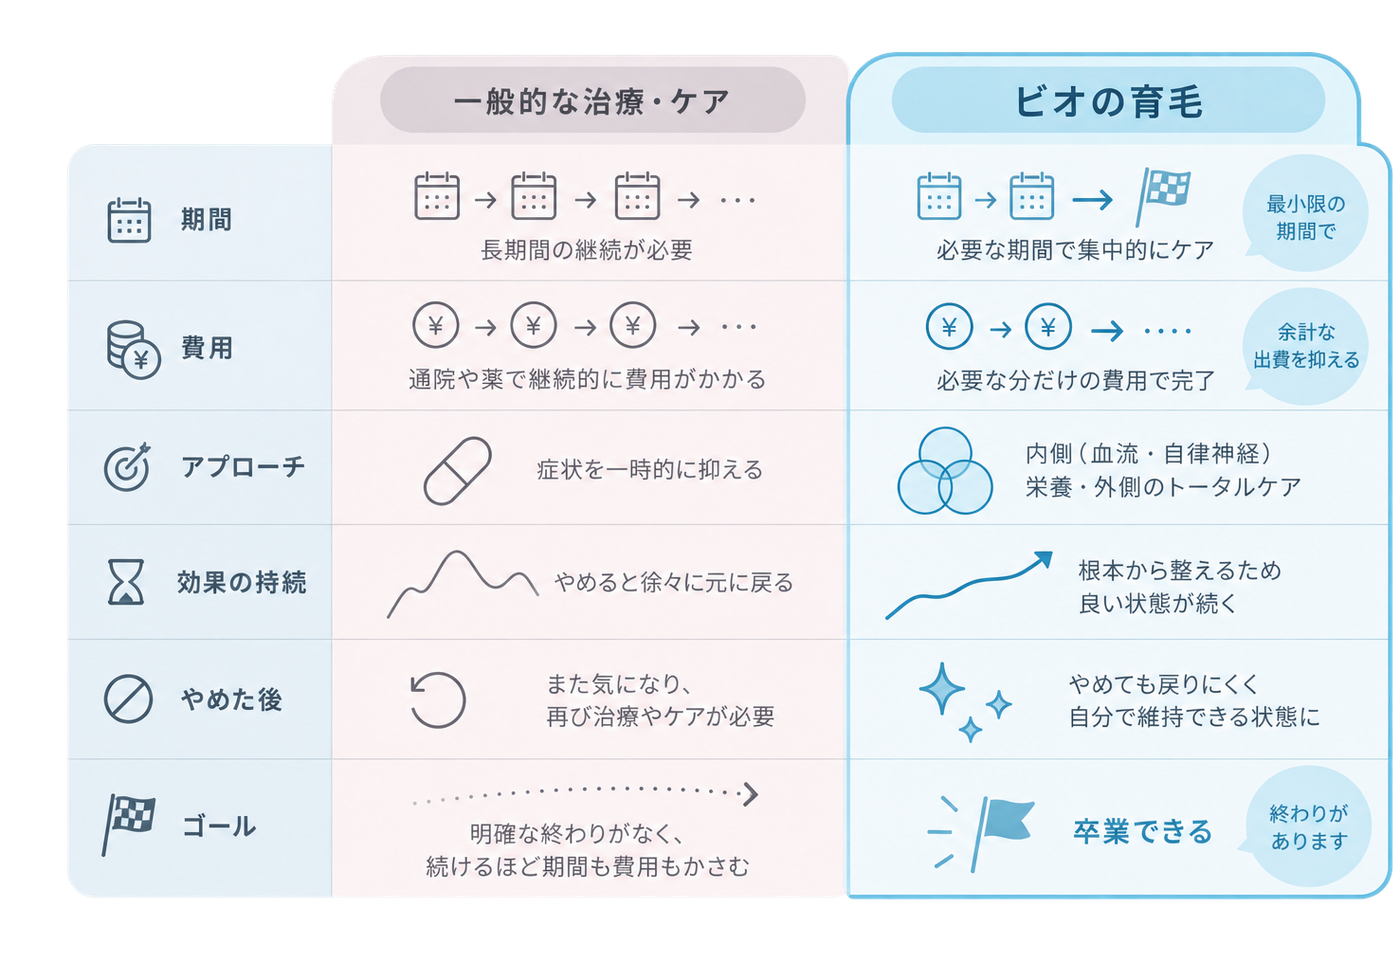
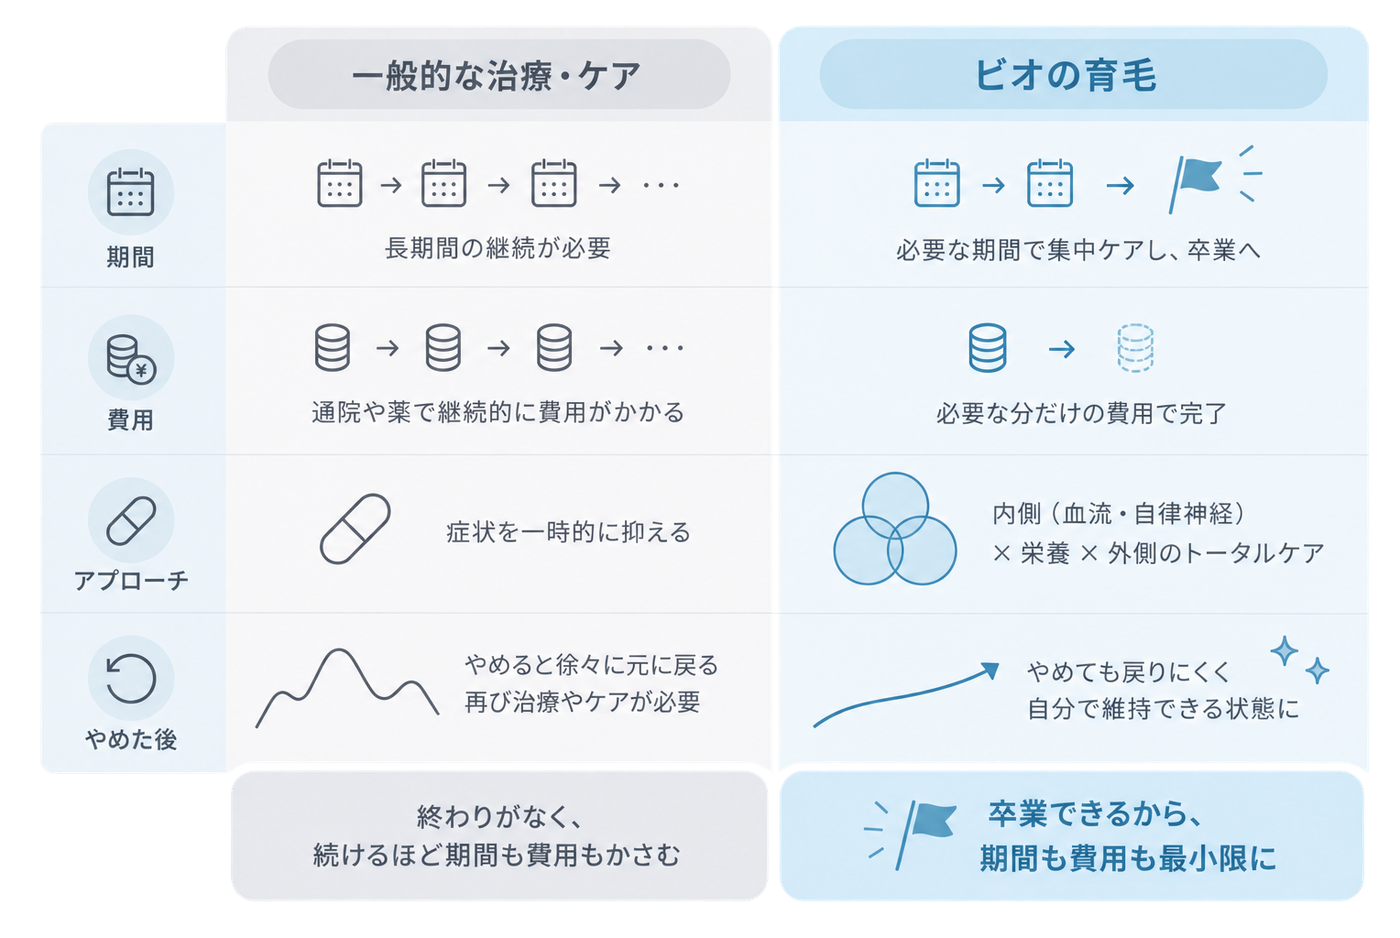
違いセクションの比較表を新バージョンに差し替え
- diff-table.png を改良版に更新（サイド吹き出しを整理し、下段に
  「終わりがなく費用がかさむ／卒業できるから期間も費用も最小限に」を追加）
- キャッシュ ?v=1→?v=2

diff --git a/index.html b/index.html
@@ -151,7 +151,7 @@
       <p class="eyebrow eyebrow--light">DIFFERENCE</p>
       <h2 class="sec__h sec__h--light">今の施術やケア、<br><span class="hl">“終わり”はありますか？</span></h2>
       <p class="sec__lead sec__lead--light">薬や一般的な治療は、続けている間だけ。<br>やめれば戻り、<b class="hl">ずっと“終わり”がありません。</b></p>
-      <div class="diff-table"><img src="images/bio/diff-table.png?v=1" alt="一般的な治療・ケアとビオの育毛の比較表。期間・費用・アプローチ・効果の持続・やめた後・ゴールで比較。一般治療は終わりがなく続けるほど費用がかさむのに対し、ビオは必要な期間で卒業できる" onerror="this.parentNode.remove()"></div>
+      <div class="diff-table"><img src="images/bio/diff-table.png?v=2" alt="一般的な治療・ケアとビオの育毛の比較表。期間・費用・アプローチ・効果の持続・やめた後・ゴールで比較。一般治療は終わりがなく続けるほど費用がかさむのに対し、ビオは必要な期間で卒業できる" onerror="this.parentNode.remove()"></div>
       <p class="sec__lead sec__lead--light" style="margin-top:48px">一生続けるケアではなく、<b class="hl">“卒業”できる育毛</b>へ。<br>では、どうすれば“卒業”できるのか——</p>
     </div>
   </section>
